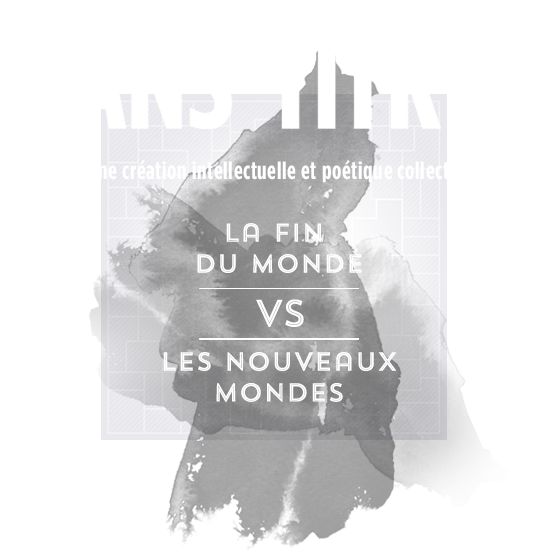
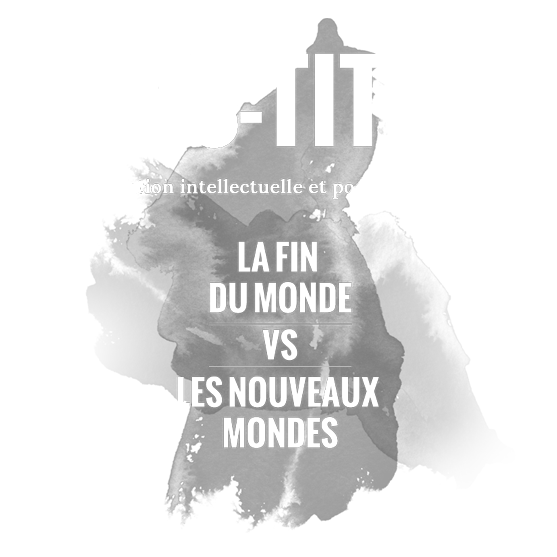
coming soon

Changed region(s): [[0.1526, 0.0305, 0.8241, 0.9767], [0.8241, 0.702, 0.8546, 0.7325]]

diff --git a/web.js b/web.js
@@ -17,7 +17,7 @@ app.use("/menu_pages", express.static(__dirname + '/src/menu_pages'));
 app.use(express.errorHandler());
 
 app.get('/', function(request, response) {
-	response.sendfile(__dirname + "/src/index.html");
+	response.sendfile(__dirname + "/src/comingsoon.html");
 });
 
 // app.get('/manifeste-editorial.html', function(request, response) {

diff --git a/src/comingsoon.html b/src/comingsoon.html
@@ -55,7 +55,7 @@ h1 {
 </head>
 <body>
 
-<img src="intro.png" />
+<img src="images/intro.png" />
 <h1>BIENTOT DISPONIBLE</h1>
 
 </body>
